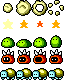
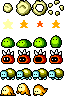
Seal enemy

diff --git a/src/enemy.ts b/src/enemy.ts
@@ -514,6 +514,70 @@ export class Turtle extends Enemy {
 }
 
 
-const ENEMY_TYPES = [Slime, SpikeSlime, Turtle];
+export class Seal extends Enemy {
+
+
+    static JUMP_TIME = 60;
+
+
+    private jumpTimer : number;
+
+
+    constructor(x : number, y : number, entityID : number) {
+
+        super(x, y+1, 3, entityID, true);
+
+        this.center = new Vector2(0, 3);
+        this.hitbox = new Vector2(8, 8);
+
+        this.knockDownYOffset = 5;
+
+        this.jumpTimer = Seal.JUMP_TIME + (((x / 16) | 0) % 2) * Seal.JUMP_TIME / 2;
+
+        this.friction.y = 0.075;
+    }
+
+
+    protected updateAI(event : CoreEvent) { 
+
+        const EPS = 0.5;
+        const JUMP_HEIGHT = -2.25;
+
+        let frame = 0;
+
+        if (this.canJump) {
+
+            this.spr.setFrame(0, this.spr.getRow());
+
+            if ((this.jumpTimer -= event.step) <= 0) {
+
+                this.speed.y = JUMP_HEIGHT;
+                this.jumpTimer = Seal.JUMP_TIME;
+            }
+        }
+        else {
+
+            if (this.speed.y < -EPS)
+                frame = 1;
+            else if (this.speed.y > EPS)
+                frame = 2;
+
+            this.spr.setFrame(frame, this.spr.getRow());
+        }
+    }
+
+
+    protected playerEvent(player : Player, event : CoreEvent) {
+
+        if (!this.canJump) return;
+
+        this.flip = player.getPos().x < this.pos.x ? Flip.None : Flip.Horizontal;
+    }
+
+}
+
+
+
+const ENEMY_TYPES = [Slime, SpikeSlime, Turtle, Seal];
 
 export const getEnemyType = (index : number) : Function => ENEMY_TYPES[clamp(index, 0, ENEMY_TYPES.length-1)];

diff --git a/src/objectmanager.ts b/src/objectmanager.ts
@@ -328,8 +328,8 @@ export class ObjectManager {
 
             e.cameraCheck(camera);
             e.update(event);
-            e.playerCollision(this.player, event);
             stage.objectCollisions(e, camera, event);
+            e.playerCollision(this.player, event);
 
             if (e.doesExist() && !e.isDying() && e.isInCamera()) {
                 
